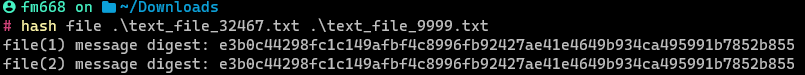
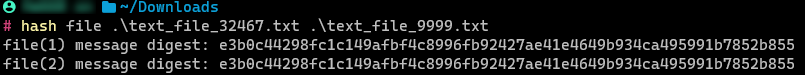
blur username of the system

Changed region(s): [[0.0, 0.0, 0.1242, 0.1867]]

diff --git a/README.md b/README.md
@@ -10,7 +10,7 @@
 - [Introduction](#introduction)
 - [Features](#features)
 - [Installation](#installation) 
-- [Example](#example) 
+- [Example](#examples) 
 - [Motivation](#motivation)
 
 
@@ -99,7 +99,7 @@ steps for installing
 - in `bin` you will find the launcher scripts `hash.bat` and `hash-linux` for windows and linux respectively
 - the directory of launcher scripts is `bin`, launcher scripts are `hash.bat` and `hash-linux`
 
-## Example
+## Examples
 
 *examples pictures are taken from a run of the program on windows machine*
 
